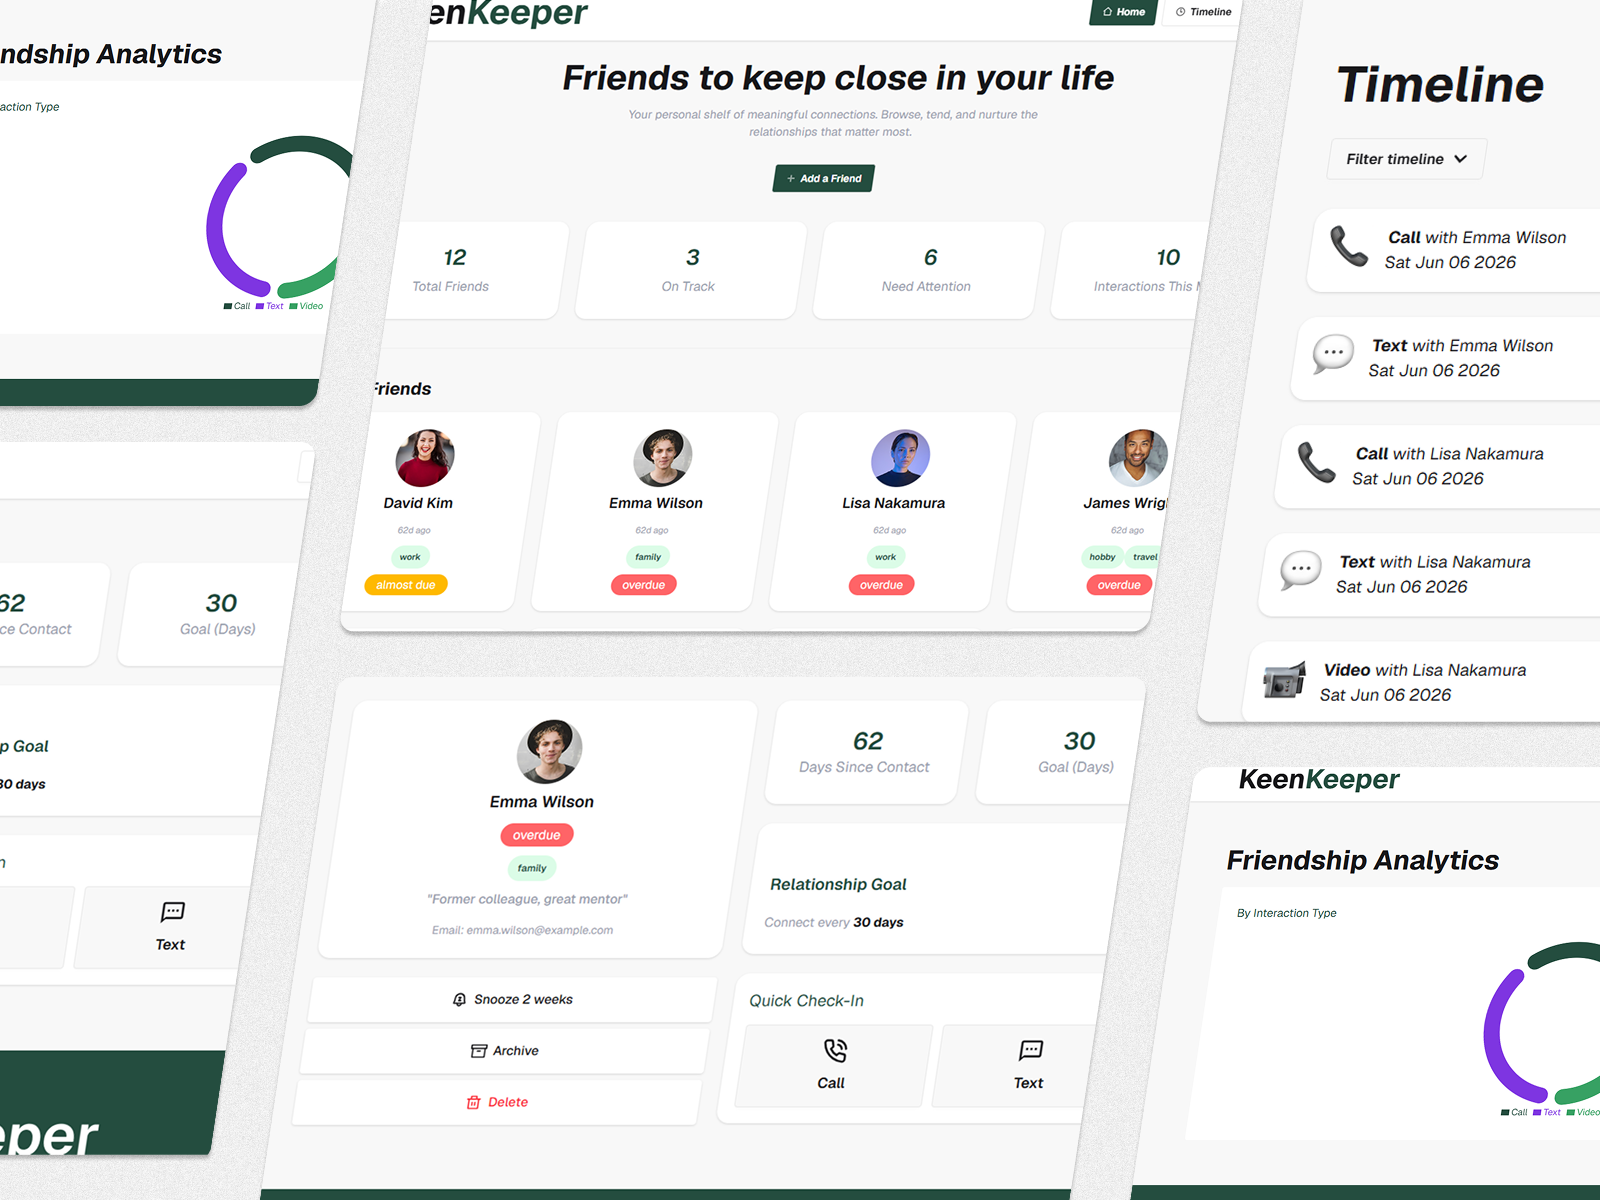
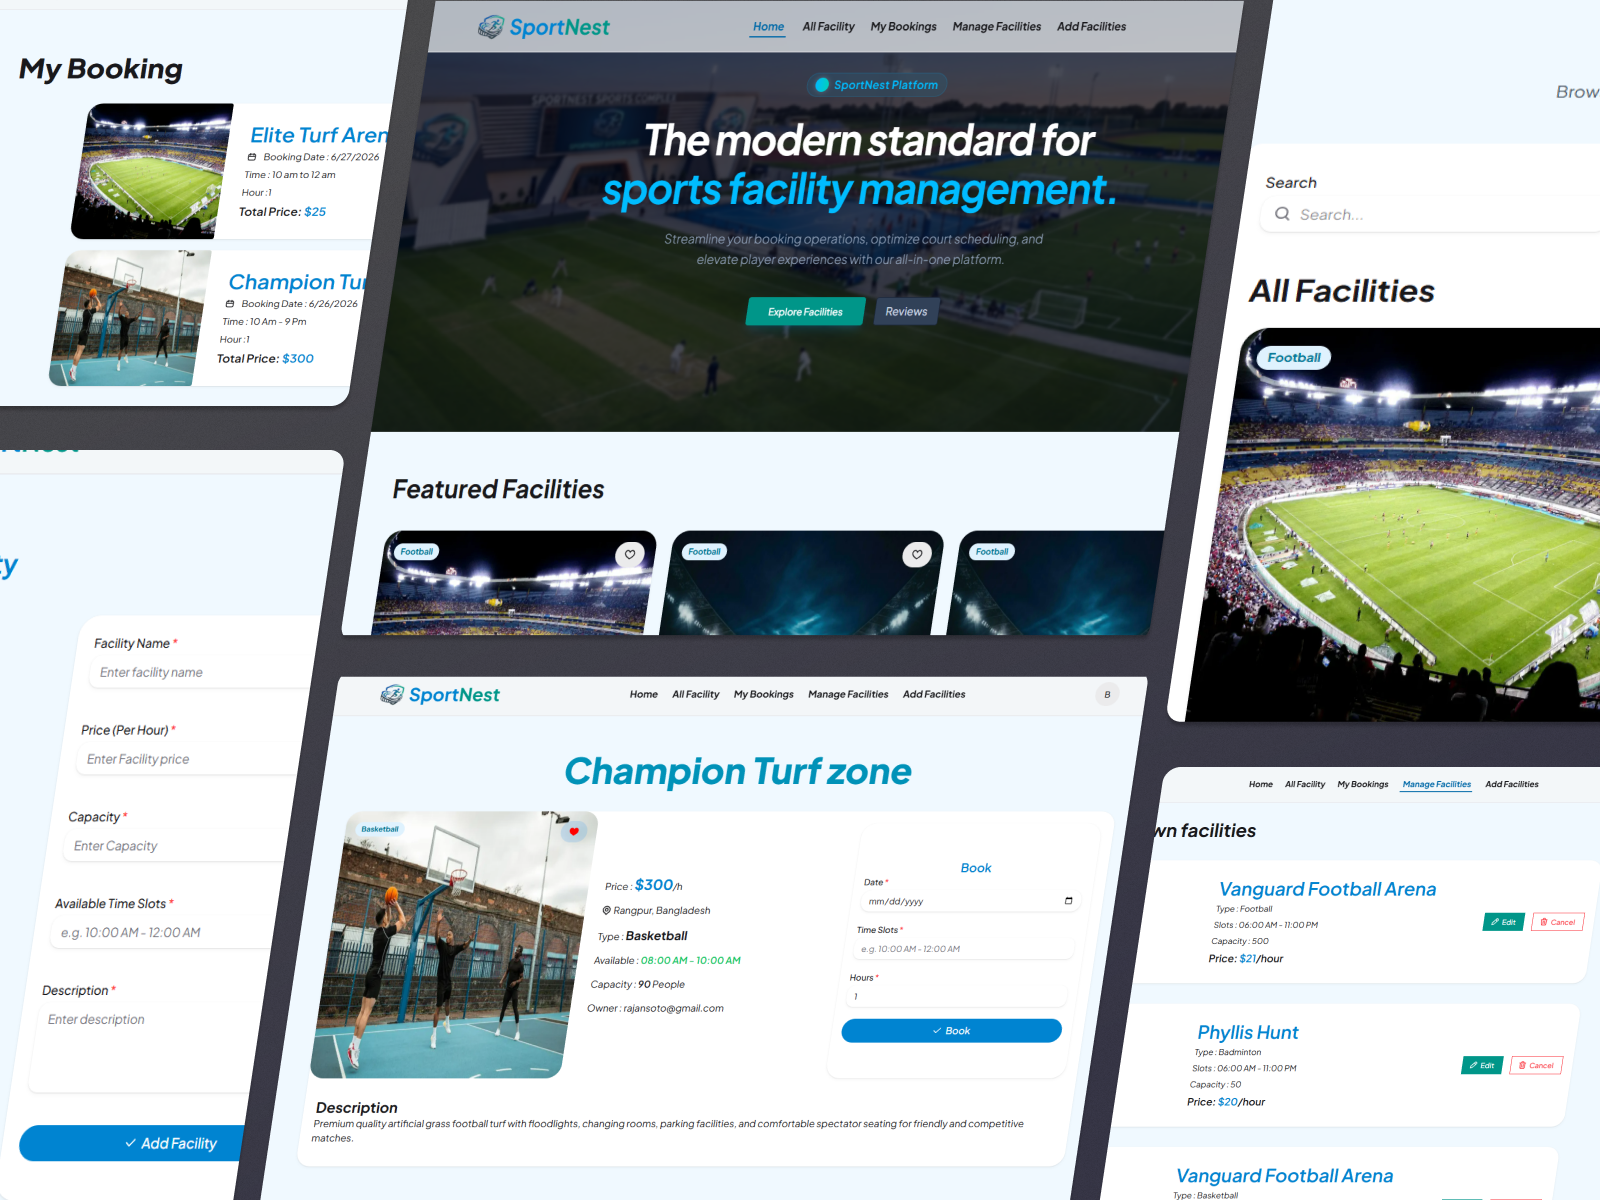
feat(Navbar, Projects): update resume link text and adjust project tag styling

diff --git a/src/components/Projects.jsx b/src/components/Projects.jsx
@@ -89,7 +89,7 @@ const Projects = () => (
           <div className="p-6 md:p-8 flex flex-col flex-grow">
             <div className="flex gap-3 mb-5">
               {project.tags.map(tag => (
-                <span key={tag} className="text-[10px] font-bold tracking-[0.2em] text-[#2D8CFF] uppercase">{tag}</span>
+                <span key={tag} className="text-[10px] font-bold tracking-[0.2em] text-[#2D8CFF] ">{tag}</span>
               ))}
             </div>
             <h3 className="font-h2 text-xl text-gray-900 dark:text-white mb-3">{project.title}</h3>

diff --git a/src/components/Navbar.jsx b/src/components/Navbar.jsx
@@ -75,7 +75,7 @@ const Navbar = () => {
               whileTap={{ scale: 0.95 }}
               className="hidden sm:flex items-center justify-center bg-[#2D8CFF] text-white px-6 py-2.5 rounded-full font-bold text-xs tracking-widest transition-all shadow-[0_10px_20px_rgba(45,140,255,0.25)]"
             >
-              DOWNLOAD RESUME
+              VIEW RESUME
             </motion.a>
 
             {/* Mobile Menu Toggle (3 Dots) */}
